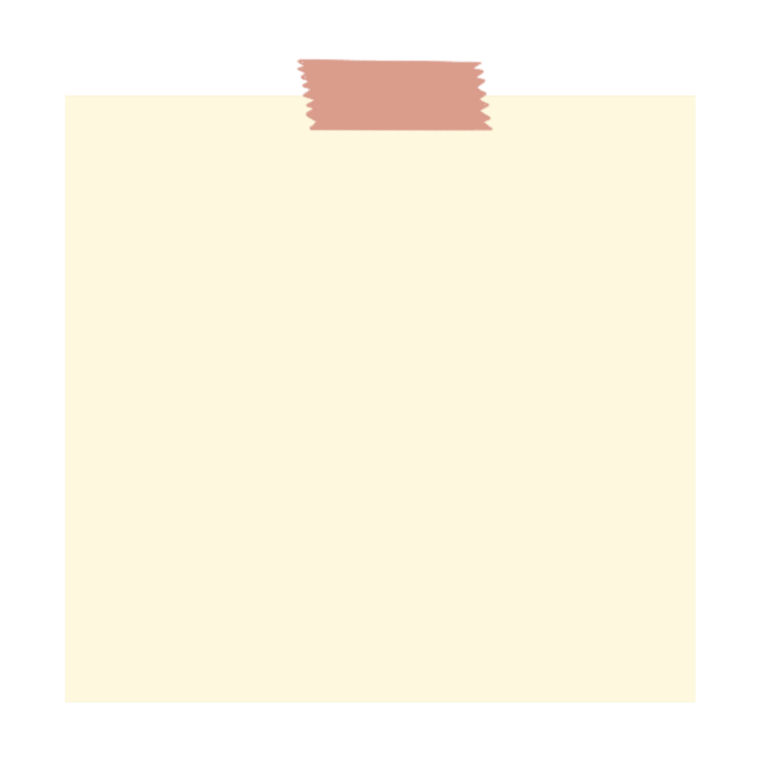
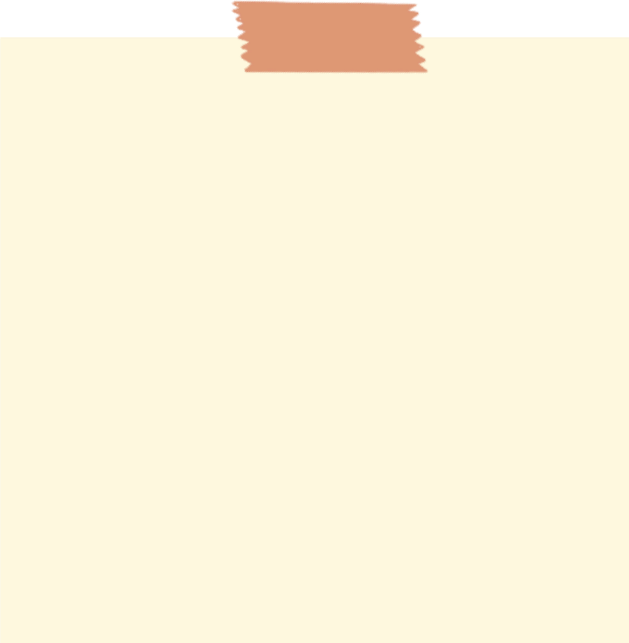
modified goalCard Link position, shadow on the goalCard

diff --git a/src/components/GoalCard.tsx b/src/components/GoalCard.tsx
@@ -1,4 +1,3 @@
-import { useState } from "react";
 import { Link } from "react-router-dom";
 import Goal from "../models/Goal";
 import note from "../assets/note.png";
@@ -12,13 +11,15 @@ const GoalCard = ({ goal }: Props) => {
   return (
     <li className="GoalCard">
       <Link to={`/goals/details/${goal._id}`}>
-        <img src={note} alt="note for goal" />
+        <div>
+          <img src={note} alt="note for goal" />
+          <div className="goal-text">
+            <p>{goal.date}</p>
+            <p>{goal.goalText}</p>
+            <p>{goal.name}</p>
+          </div>
+        </div>
       </Link>
-      <div className="goal-text">
-        <p>{goal.date}</p>
-        <p>{goal.goalText}</p>
-        <p>{goal.name}</p>
-      </div>
     </li>
   );
 };

diff --git a/src/components/GoalCard.css b/src/components/GoalCard.css
@@ -1,10 +1,16 @@
 .GoalCard {
   list-style: none;
   position: relative;
+  margin-right: 10px;
+}
+
+.GoalCard a {
+  color: #484848;
 }
 
 .GoalCard img {
   width: 150px;
+  box-shadow: 10px 10px 10px -10px rgb(203, 203, 203);
 }
 
 .GoalCard .goal-text {

diff --git a/src/components/DashboardRoute.tsx b/src/components/DashboardRoute.tsx
@@ -25,7 +25,6 @@ const DashboardRoute = () => {
   useEffect(() => {
     getGoals({}).then((response) => setGoals(response));
   }, []);
-
   return (
     <div className="DashboardRoute">
       {user ? <h2>welcome, {user.displayName}</h2> : <h2></h2>}

diff --git a/src/components/DashboardRoute.css b/src/components/DashboardRoute.css
@@ -1,0 +1,5 @@
+.DashboardRoute .goals {
+  display: flex;
+  flex-wrap: wrap;
+  justify-content: center;
+}
